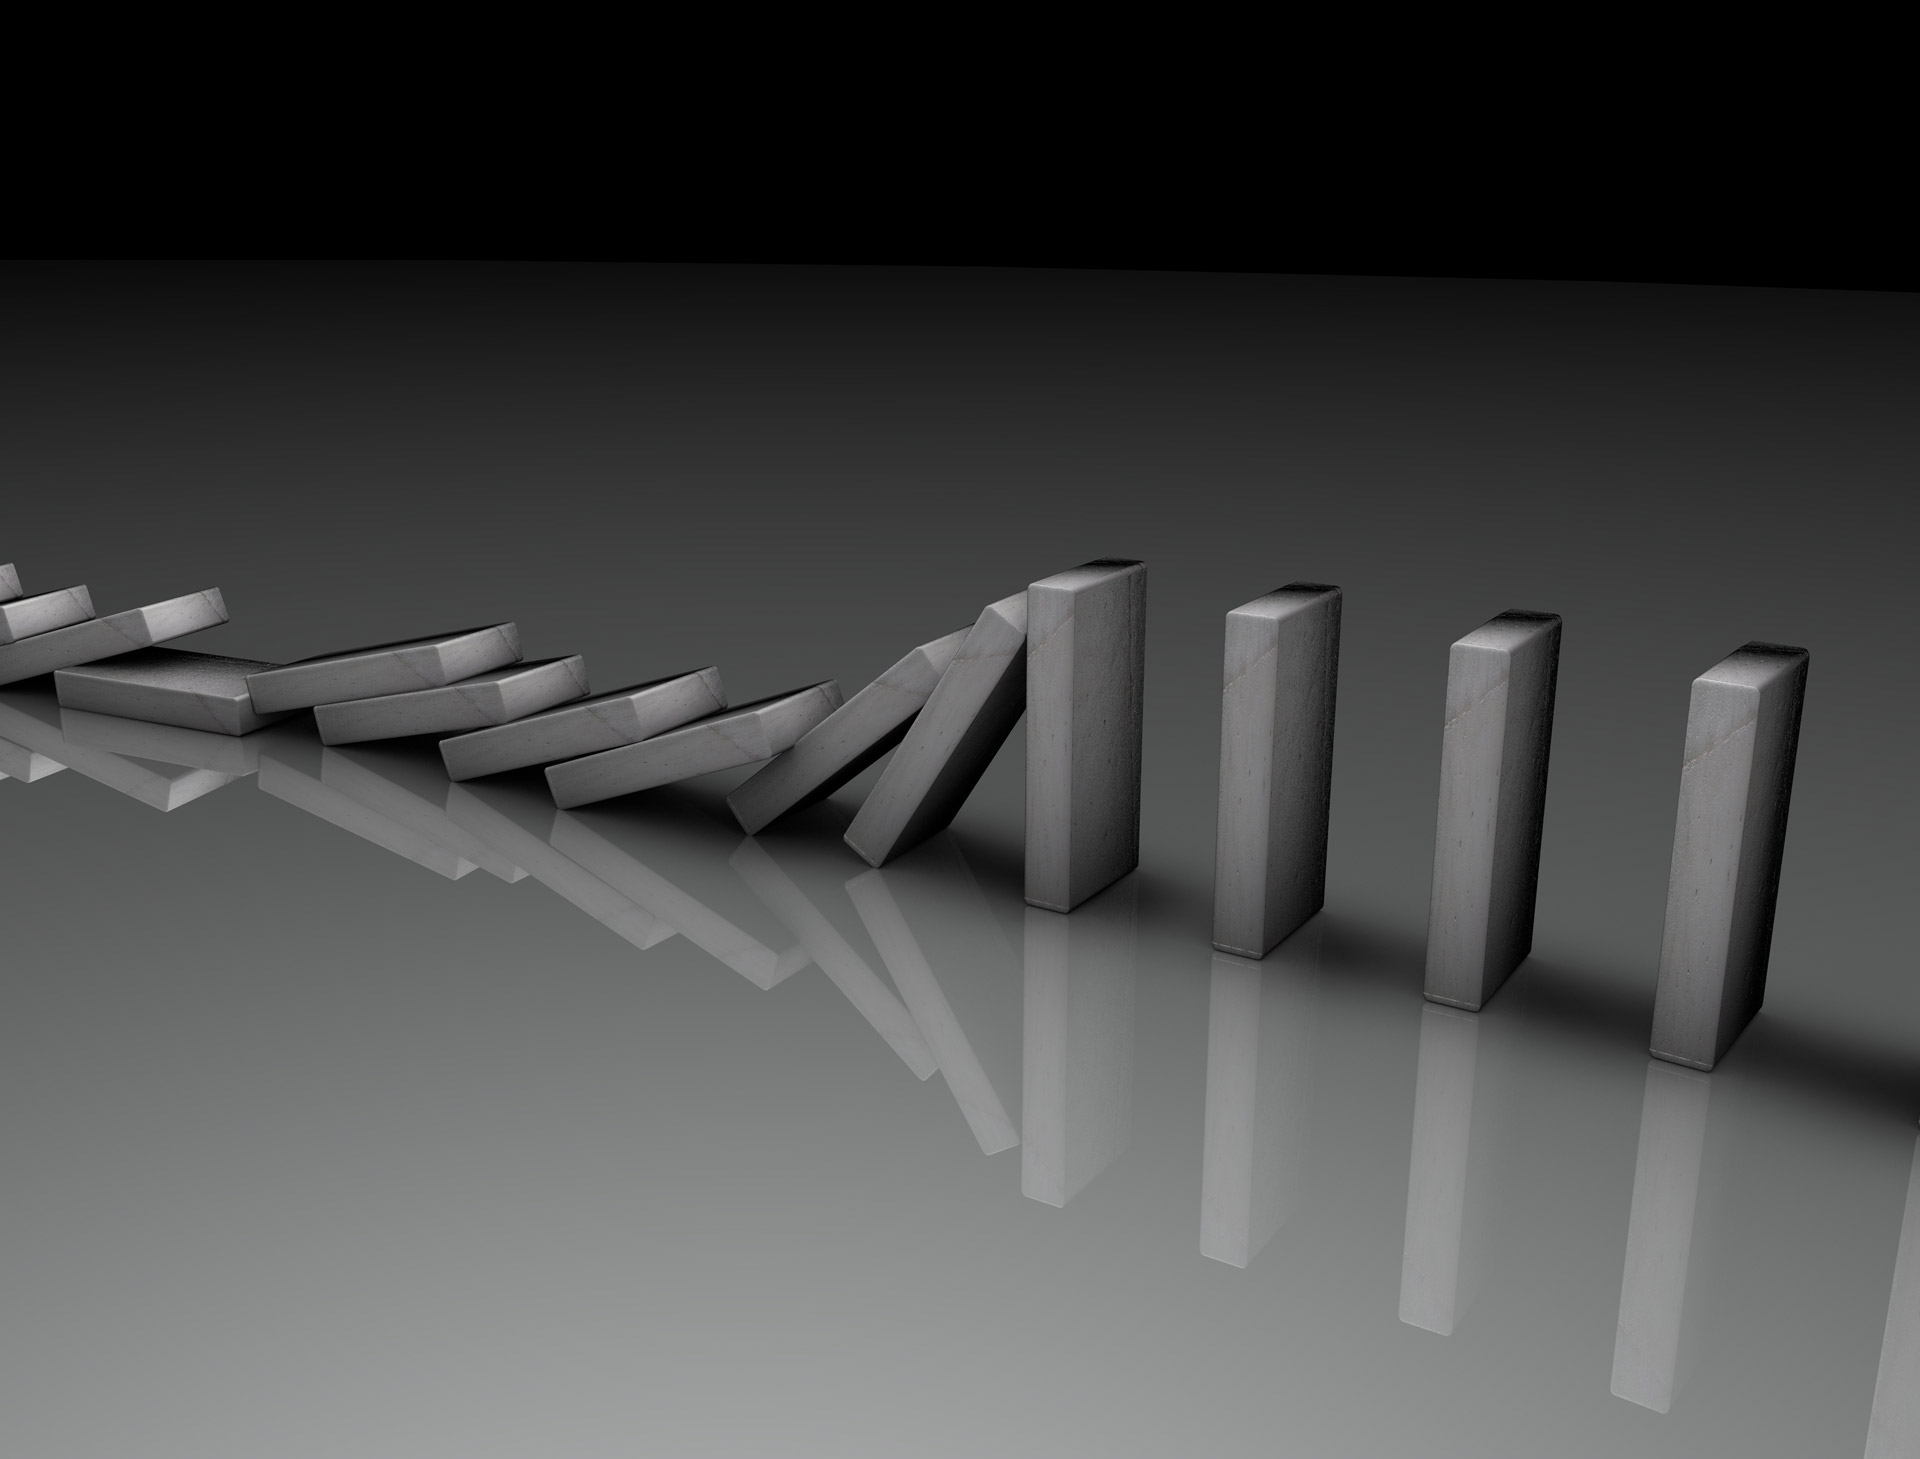
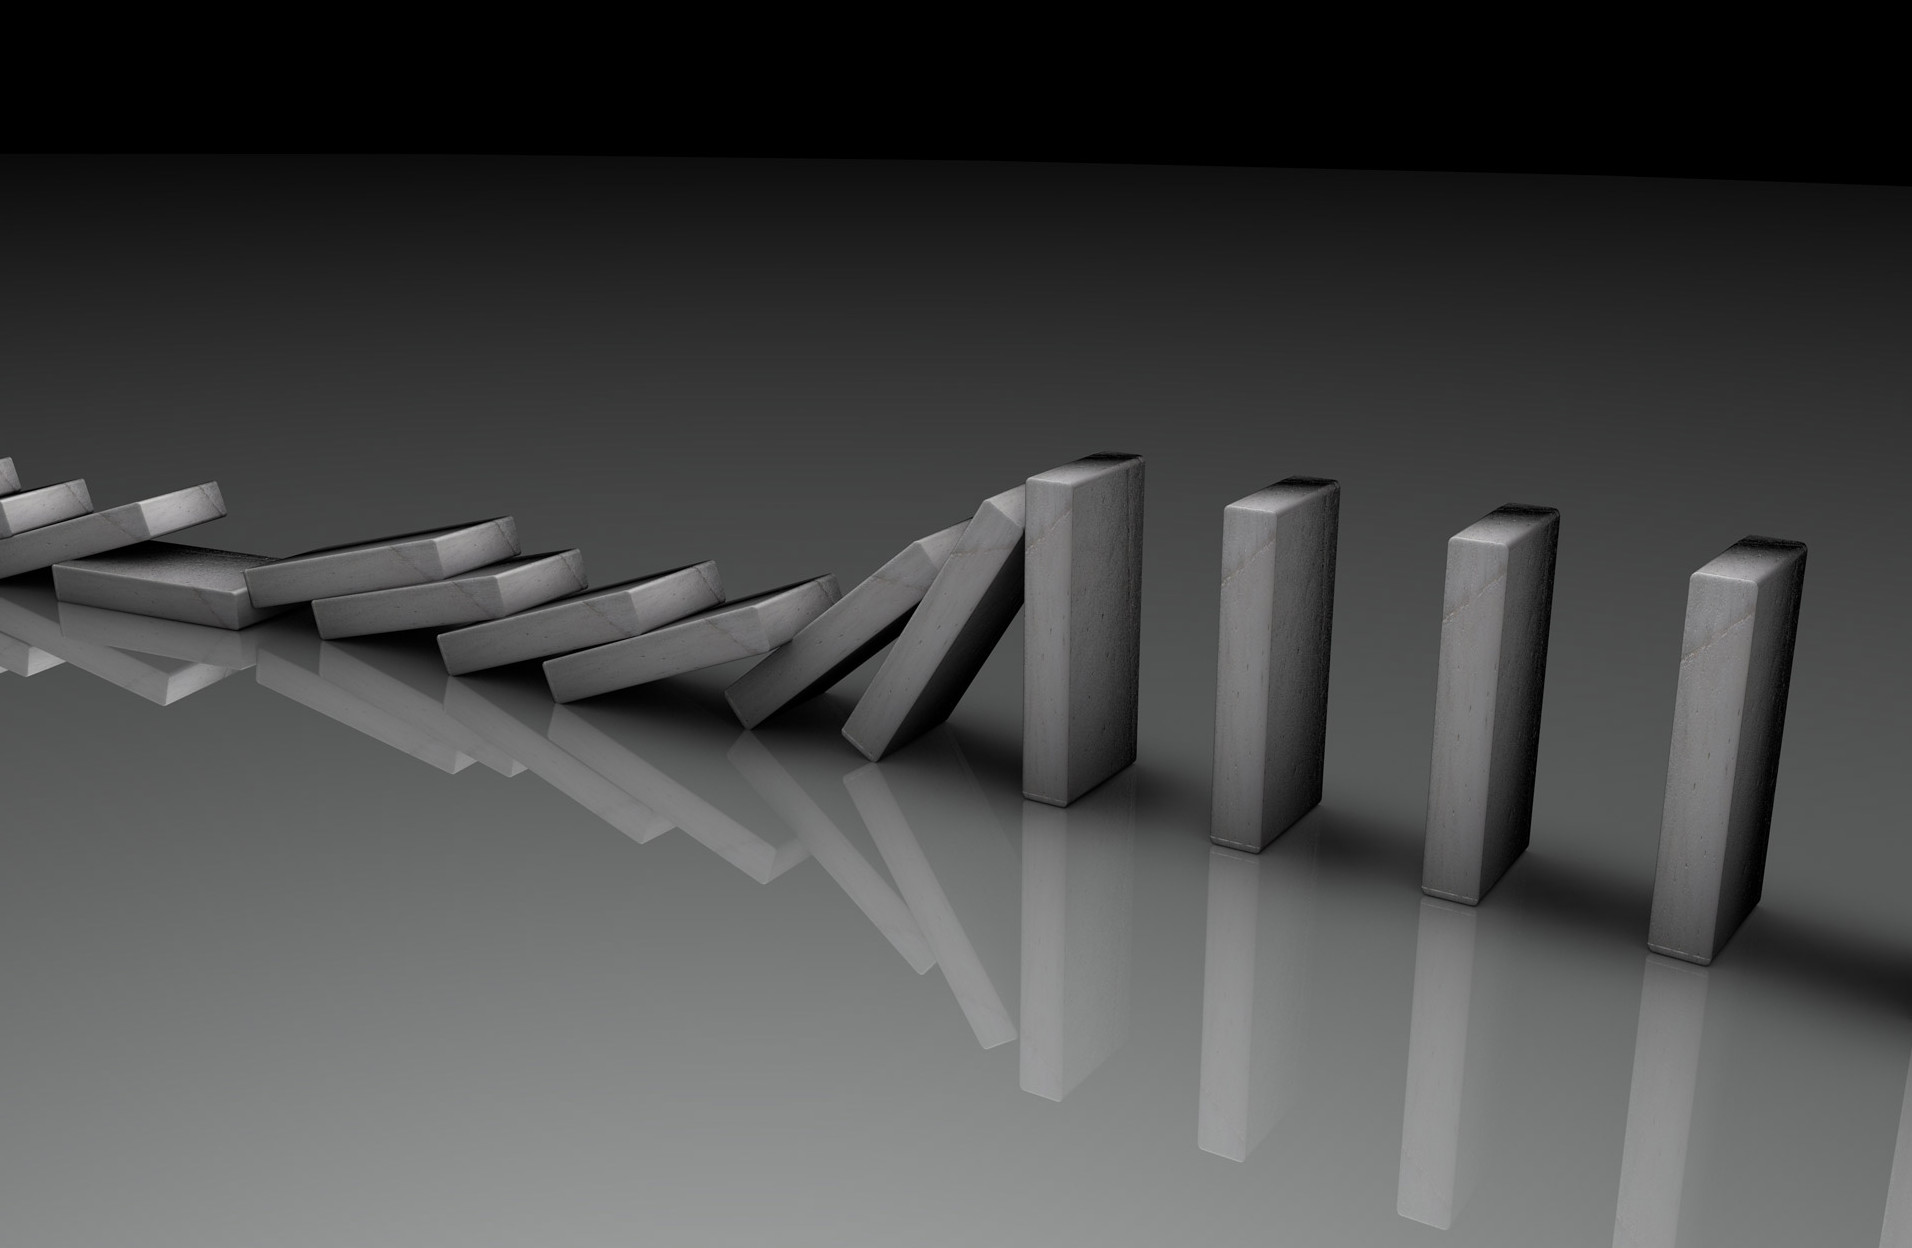
resized domino

diff --git a/db/seeds.rb b/db/seeds.rb
@@ -99,9 +99,7 @@ Course.create(
    'utilubung3',
    'utilubung4',
    'geldausleihe',
-   'geldausleihe1',
    'utilubung6',
-   'utilubung7',
    'abschluss',
    'sources'
  ]
@@ -318,8 +316,8 @@ Course.create(
 
 Course.create(
  id: 9,
- title: "Metaethik",
- description: "Ist Ethik eine Wissenschaft? Kann man ethische Fragen jemals wirklich beantworten? Was machen wir, wenn wir ethische Urteile fällen?",
+ title: "Abschlussprüfung",
+ description: "Prüfe dein Wissen! Nach Bestehen dieser Prüfung erhältst du ein Diplom!",
  topic: "ethics",
  duration: "15 Minuten",
  language: "de",
